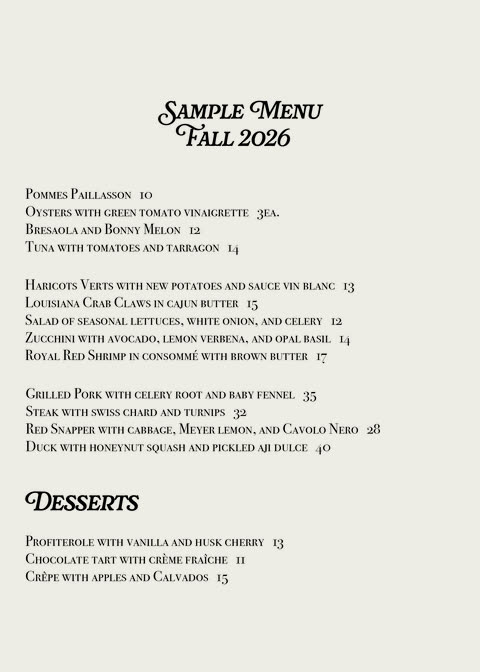
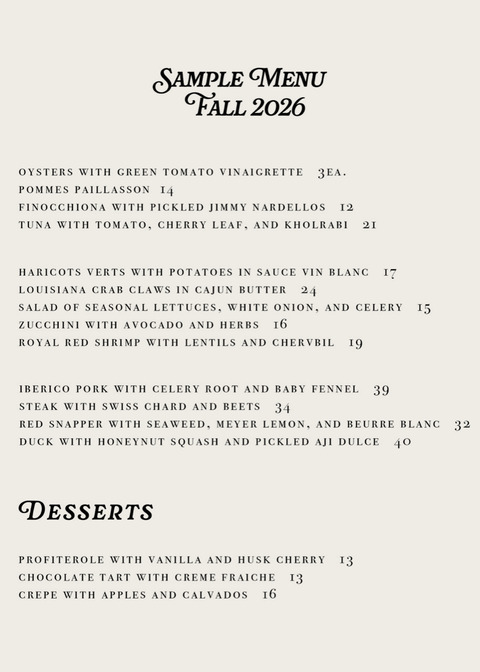
Update fall 2026 sample menu

diff --git a/menus.html b/menus.html
@@ -35,13 +35,12 @@
           src="assets/menu/optimized/menu-fall-2026-480.jpg"
           srcset="
             assets/menu/optimized/menu-fall-2026-480.jpg 480w,
-            assets/menu/optimized/menu-fall-2026-960.jpg 960w,
-            assets/menu/optimized/menu-fall-2026.jpg 1500w
+            assets/menu/optimized/menu-fall-2026.jpg 914w
           "
-          sizes="(max-width: 700px) calc(100vw - 2rem), min(56vw, 71.429svh)"
+          sizes="(max-width: 700px) calc(100vw - 2rem), min(56vw, 71.406svh)"
           alt="Fall 2026 sample menu"
-          width="1500"
-          height="2100"
+          width="914"
+          height="1280"
           fetchpriority="high">
 
         <a class="menus-enlarge" href="assets/menu/optimized/menu-fall-2026.jpg">View full size</a>
